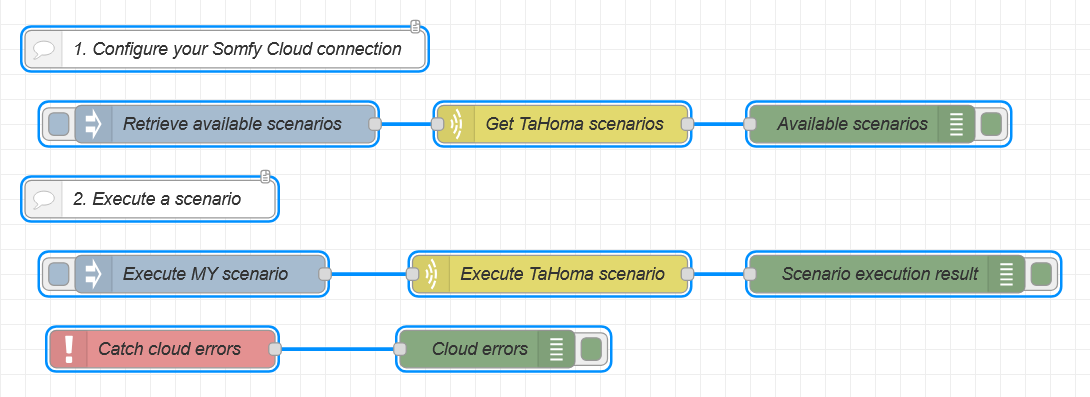
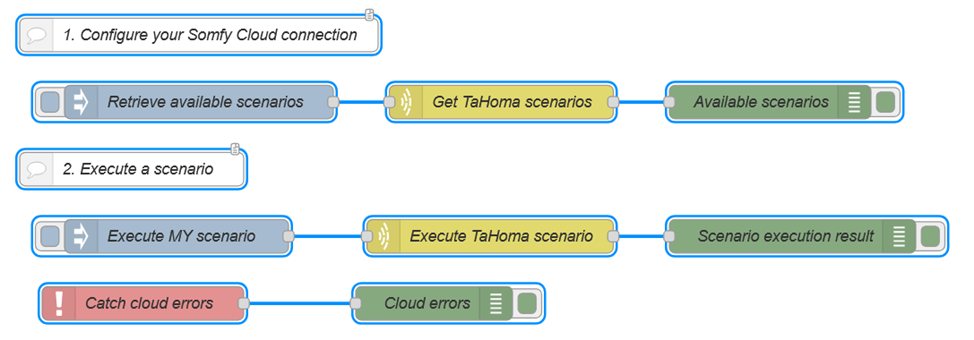
Adding cloud example

diff --git a/README.md b/README.md
@@ -8,7 +8,7 @@
 [![npm downloads](https://img.shields.io/npm/dt/%40nils-github1/node-red-contrib-tahoma?logo=npm&label=total%20downloads)](https://www.npmjs.com/package/@nils-github1/node-red-contrib-tahoma)
 [![License](https://img.shields.io/npm/l/%40nils-github1/node-red-contrib-tahoma)](https://github.com/Nils-GitHub1/node-red-contrib-tahoma/blob/develop/LICENSE)
 [![Build and Lint](https://github.com/Nils-GitHub1/node-red-contrib-tahoma/actions/workflows/build.yml/badge.svg?branch=develop&label=build%20%26%20lint)](https://github.com/Nils-GitHub1/node-red-contrib-tahoma/actions/workflows/build.yml)
-[![Code size](https://img.shields.io/github/languages/code-size/Nils-GitHub1/node-red-contrib-tahoma)]
+[![Code size](https://img.shields.io/github/languages/code-size/Nils-GitHub1/node-red-contrib-tahoma)](https://github.com/Nils-GitHub1/node-red-contrib-tahoma/)
 [![GitHub stars](https://img.shields.io/github/stars/Nils-GitHub1/node-red-contrib-tahoma?style=social)](https://github.com/Nils-GitHub1/node-red-contrib-tahoma)
 
 Since version **3.3.2**, this package supports two complementary ways to interact with your Somfy TaHoma installation.
